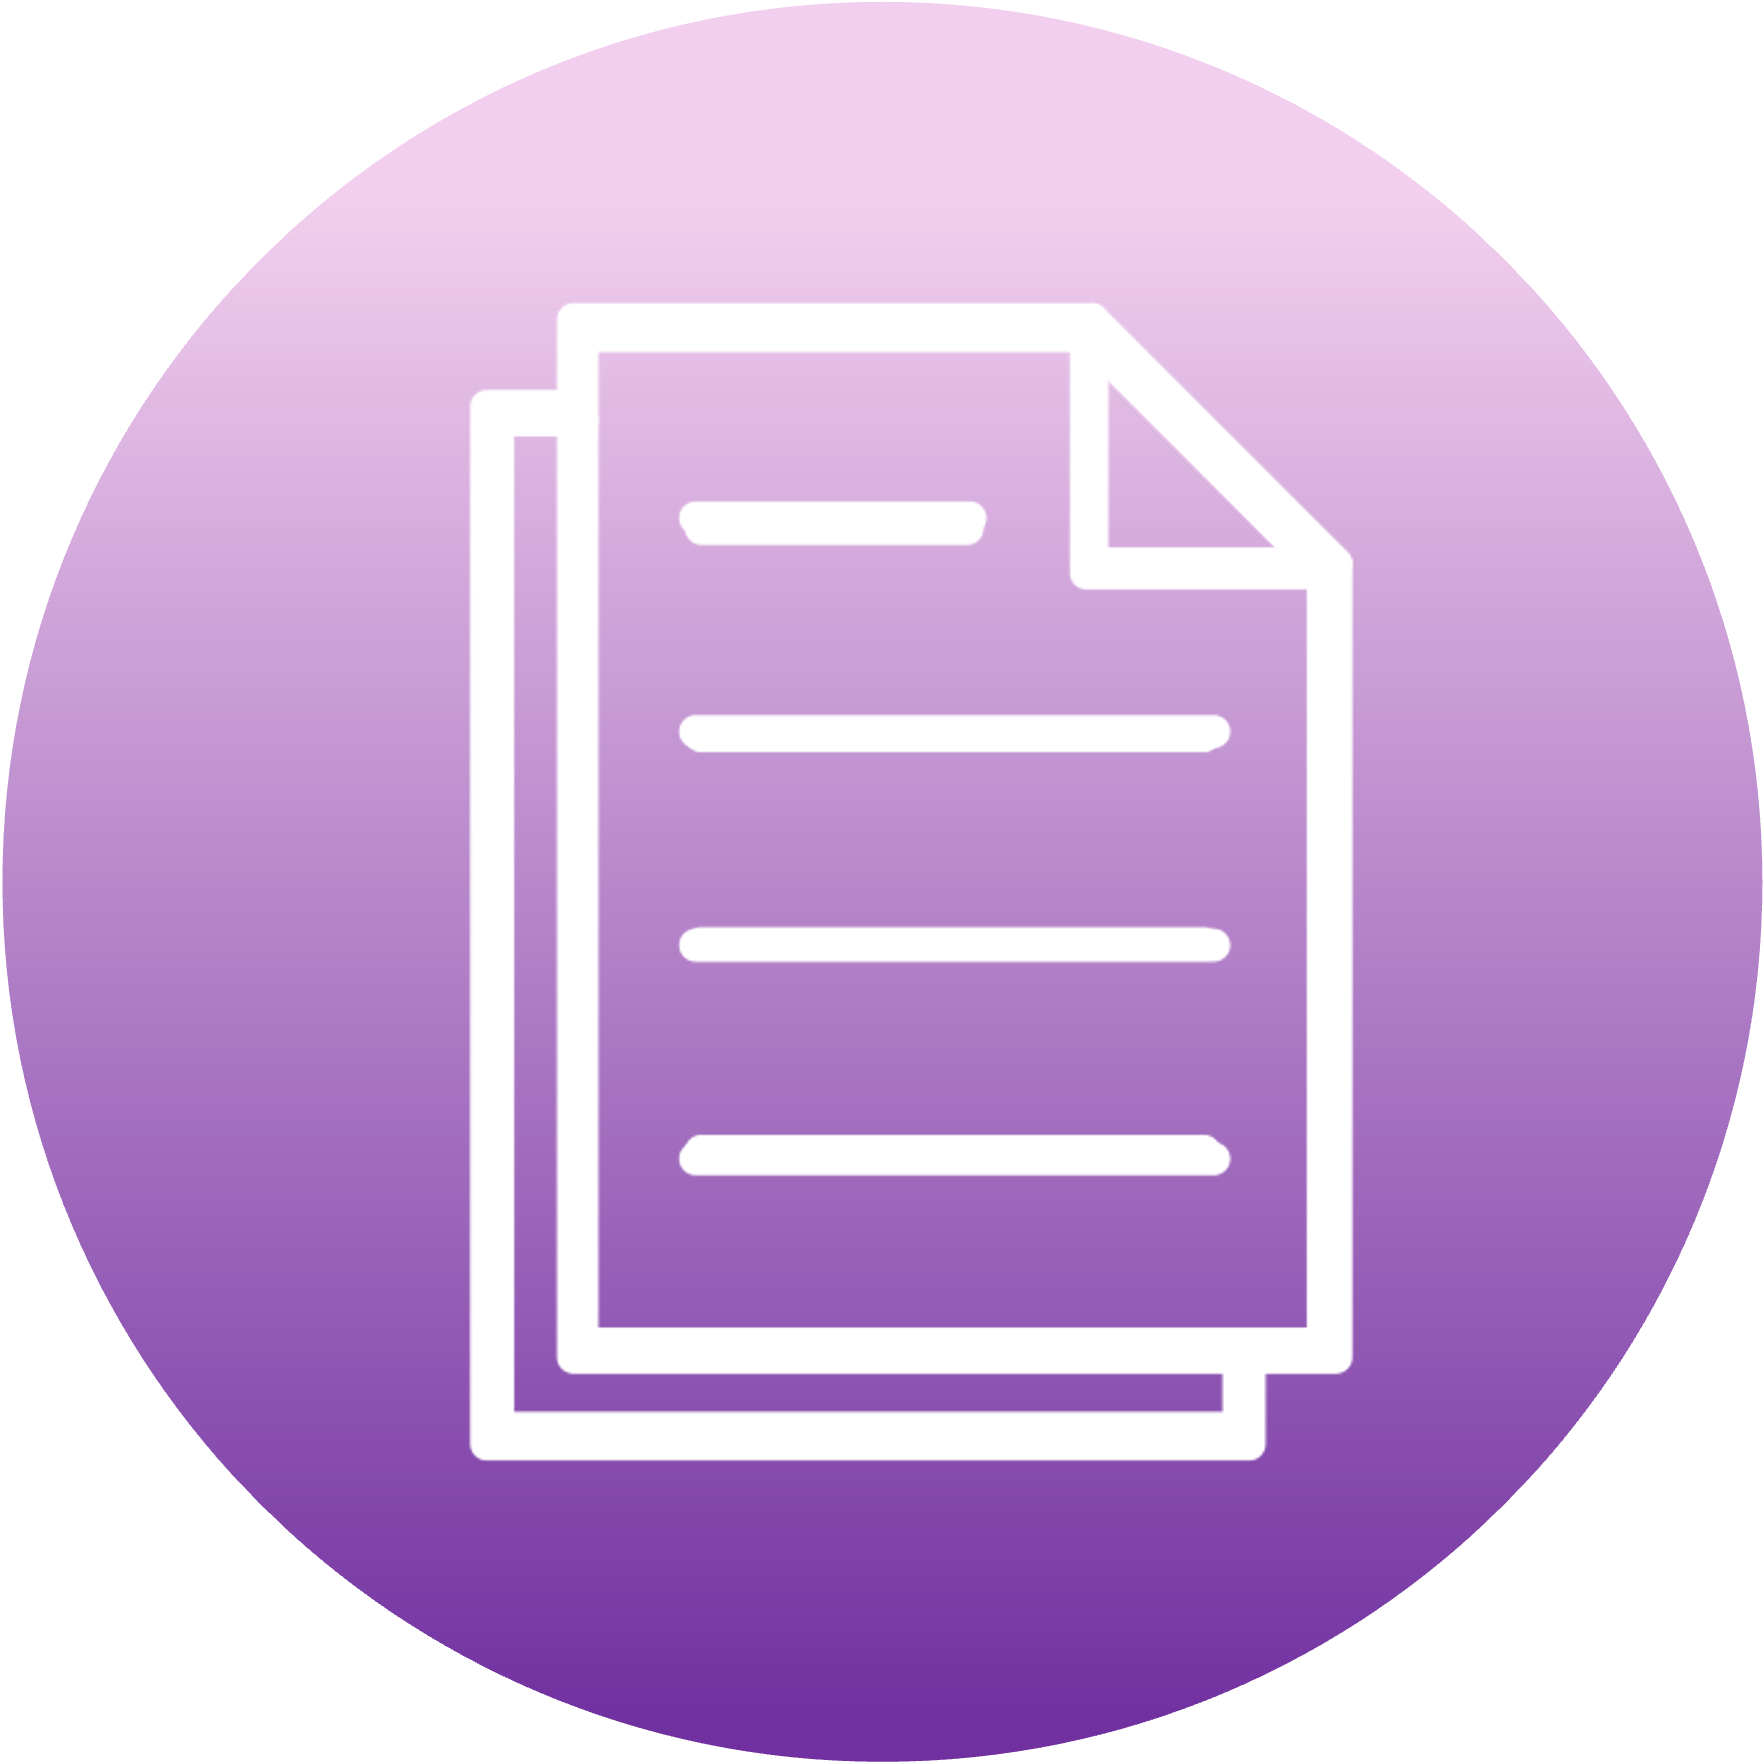
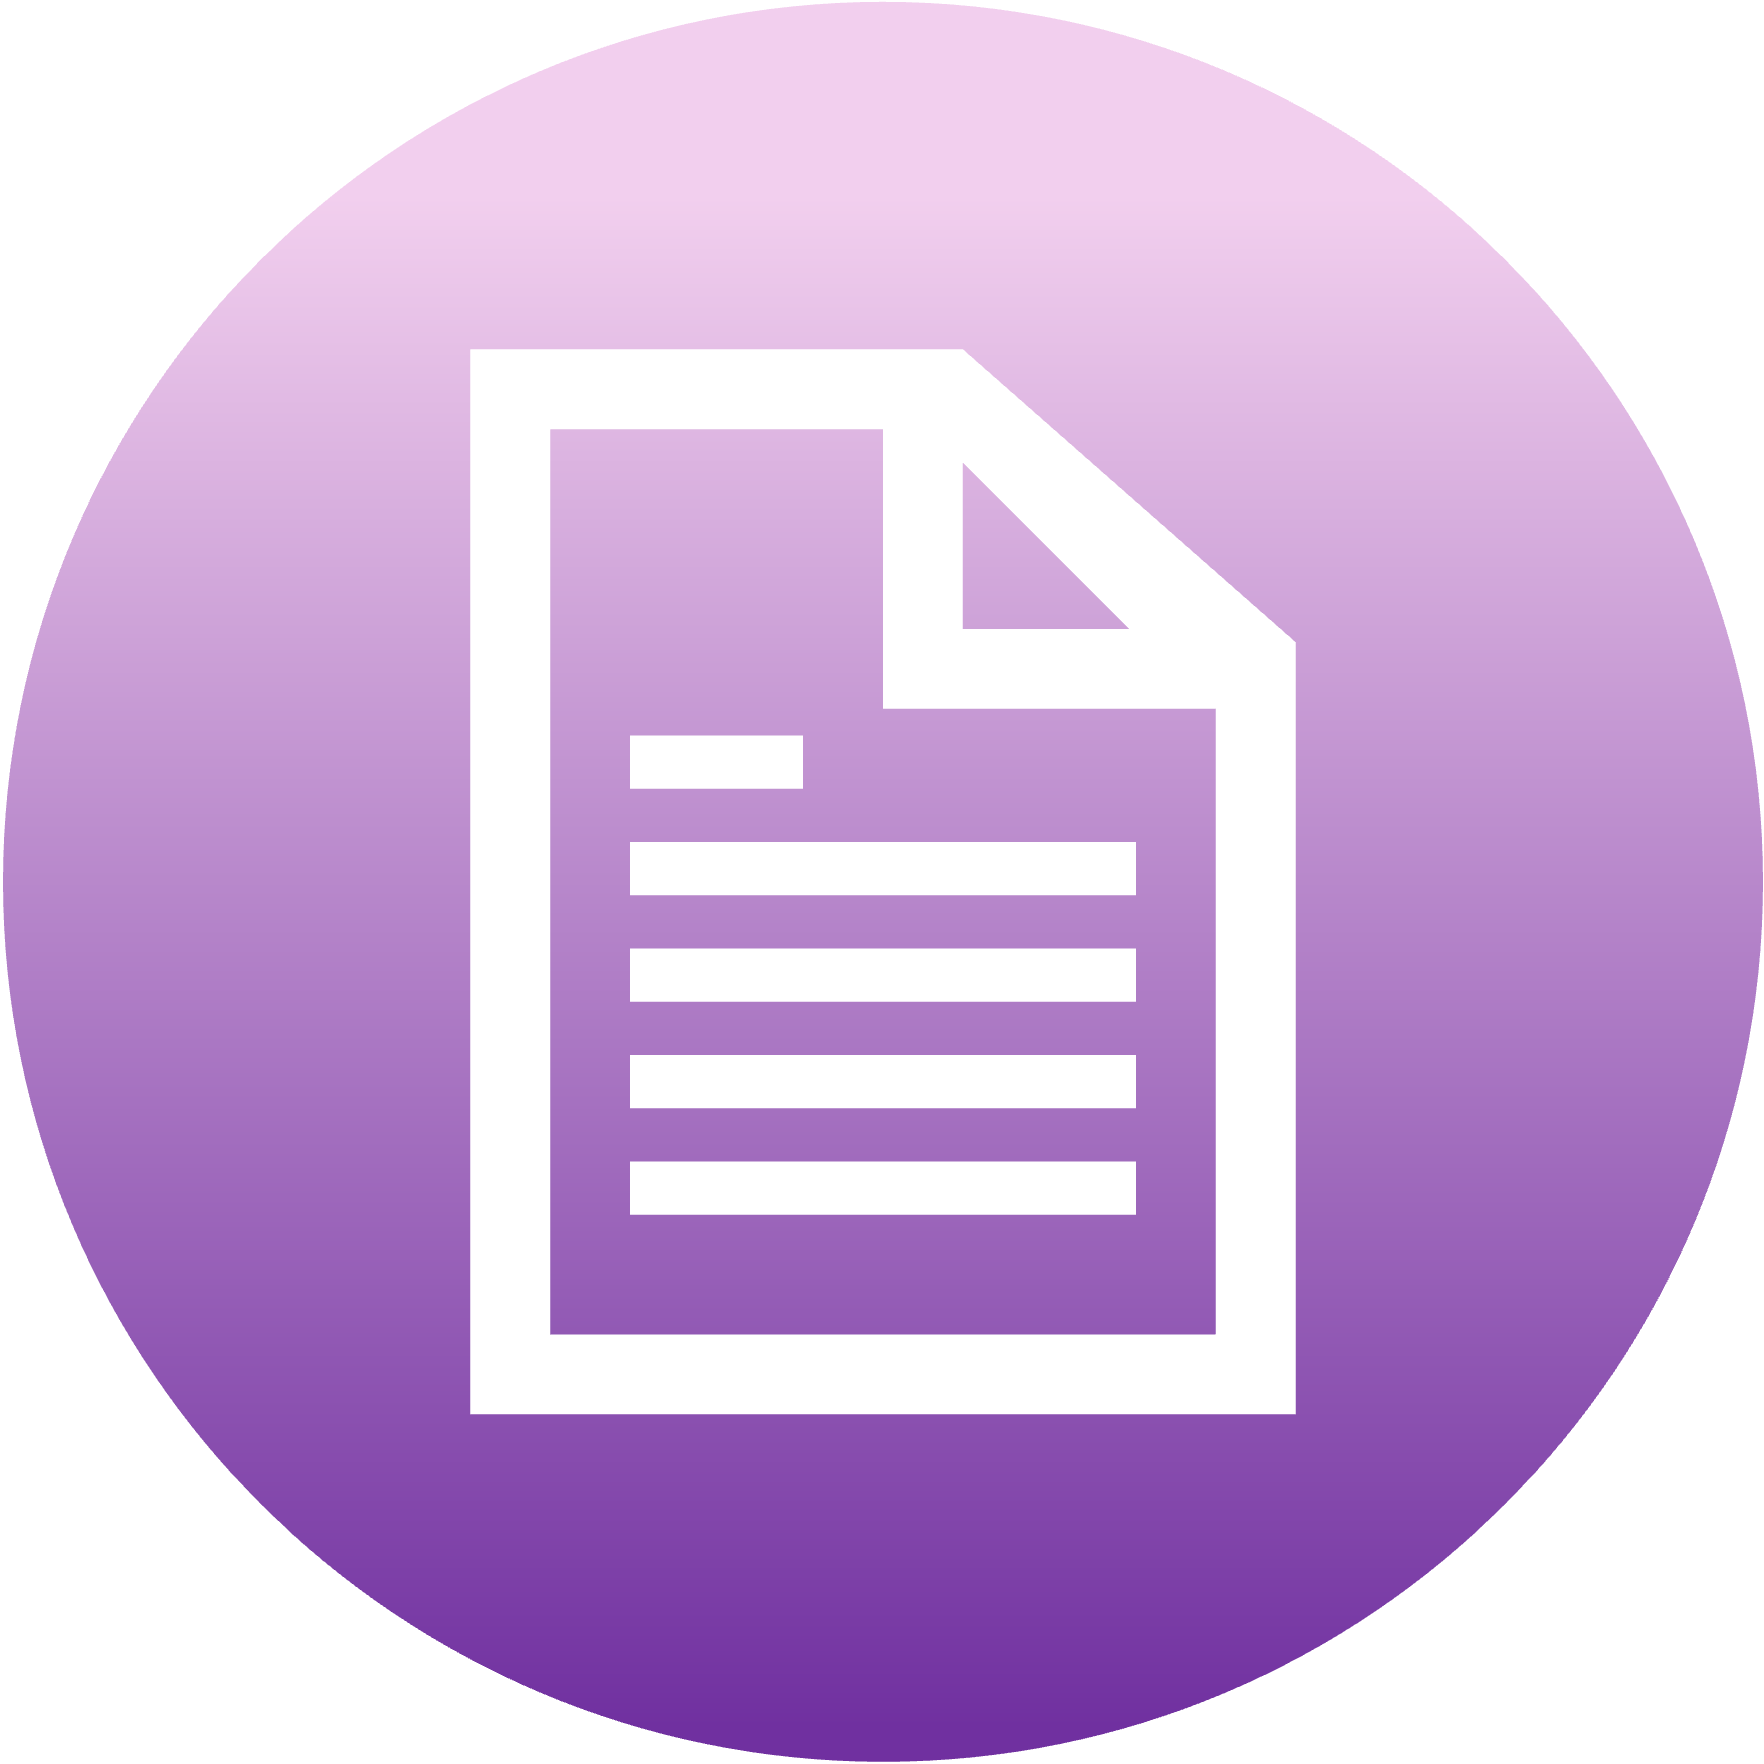
update projects and style

Changed region(s): [[0.2494, 0.1559, 0.7795, 0.8418], [0.9977, 0.4677, 1.0, 0.53]]

diff --git a/assets/css/beautifuljekyll.css b/assets/css/beautifuljekyll.css
@@ -1127,7 +1127,7 @@ pre {
   }
 }
 
-.box-gray {
+.box-overview {
   background-color: #EAEAEA;
   color: #000000;
   padding:20px;
@@ -1137,8 +1137,13 @@ pre {
   margin: 1em auto 1.75em;
 }  
 
-p.header {
+p.overview {
   padding-left: 25px; 
   text-indent: -25px;
   margin: .7rem 0;
+}
+
+.overview-icon {
+  width: 20px;
+  margin-bottom:3px;
 }

diff --git a/projects.md b/projects.md
@@ -12,7 +12,7 @@ The broader goals of **ManyBabies** come together through collaborative projects
       </div>
       <div class="col-sm-10">
         <h4>Main Projects</h4>
-        <i>Test a question about infant development of key theoretical or methodological interest. Numbered sequentially (e.g., MB1, MB2)</i>
+        <i>Address a question about infant development of key theoretical or methodological interest; main empirical projects are numbered sequentially (e.g., MB1, MB2)</i>
         <br>
       </div>
     </div>
@@ -23,7 +23,7 @@ The broader goals of **ManyBabies** come together through collaborative projects
       </div>
       <div class="col-sm-10">
         <h4>Spin-off Projects</h4>
-        <i>Build on the methods or data from the main projects; e.g., extending the study to a different population of infants (e.g., bilinguals; MB1B) or follow-up data collection (e.g., longitudinal correlation with CDIs; MB1L). Identified with a letter following the main project abbreviation</i>
+        <i>Build on the methods or data from the main projects, e.g., extending the study to a different population of infants (e.g., bilinguals; MB1B) or follow-up data collection (e.g., longitudinal correlation with CDIs; MB1L); identified with a letter following the main project abbreviation</i>
       </div>
     </div>
     <div class="row">
@@ -33,7 +33,7 @@ The broader goals of **ManyBabies** come together through collaborative projects
       </div>
       <div class="col-sm-10">
         <h4>Secondary Analyses</h4>
-        <i>Conducted on publicly-available ManyBabies data. In some cases, may include additional data not collected as part of MB (e.g., if an individual lab investigates relationships between their lab’s MB data and other data collected by their lab)</i>
+        <i>Conducted on publicly-available ManyBabies data; in some cases, may include additional data not collected as part of MB (e.g., if an individual lab investigates relationships between their lab’s MB data and other data collected by their lab)</i>
       </div>
     </div>
   </div>
@@ -53,7 +53,7 @@ The broader goals of **ManyBabies** come together through collaborative projects
           <a href="https://{{main.website }}"><img src="{{ main.logoPath }}" alt="{{ main.project}} logo" width="70" style="margin-top:4px;"></a>
         </div>
         <div class="col-sm-10">
-          <h3 style="margin-top:0em;"><a href=" https://{{main.website }}">{{ main.project }}:</a> {{ main.description }}</h3>
+          <h3 style="margin-top:0em;"><a href=" https://{{main.website }}">{{ main.project }}</a>: {{ main.description }}</h3>
           <i>{{ main.tagline }}</i><br>
           <b>Status:</b> <code>{{ main.status }}</code><br>
         </div>
@@ -70,7 +70,7 @@ The broader goals of **ManyBabies** come together through collaborative projects
         </div>
         <div class="col-sm-9">
           <hr style="margin-top:0.8em; margin-bottom:0.3em;">
-          <h4 style="margin-top:0.5em; margin-bottom:0.1em;"><a href=" https://{{spinoff.website }}">{{ spinoff.project }}:</a> {{ spinoff.description }}</h4>
+          <h4 style="margin-top:0.5em; margin-bottom:0.1em;"><a href=" https://{{spinoff.website }}">{{ spinoff.project }}</a>: {{ spinoff.description }}</h4>
           <b>Status:</b> <code>{{ spinoff.status }}</code><br>
         </div>
       </div> 
@@ -87,7 +87,7 @@ The broader goals of **ManyBabies** come together through collaborative projects
         </div>
         <div class="col-sm-9">
           <hr style="margin-top:0.8em; margin-bottom:0.3em;">
-          <h4 style="margin-top:0.5em;margin-bottom:0.1em;"><a href=" https://{{item.website }}">{{ item.project }}:</a> {{ item.description }}</h4>
+          <h4 style="margin-top:0.5em;margin-bottom:0.1em;"><a href=" https://{{item.website }}">{{ item.project }}</a>: {{ item.description }}</h4>
           <b>Status:</b> <code>{{ item.status }}</code><br>
         </div>
       </div> 
@@ -106,7 +106,7 @@ The broader goals of **ManyBabies** come together through collaborative projects
           <a href="https://{{main.website }}"><img src="{{ main.logoPath }}" alt="{{ main.project}} logo" width="70" style="margin-top:4px;"></a>
         </div>
         <div class="col-sm-10">
-          <h3 style="margin-top:0.1em;"><a href=" https://{{main.website }}">{{ main.project }}:</a> {{ main.description }}</h3>
+          <h3 style="margin-top:0.1em;"><a href=" https://{{main.website }}">{{ main.project }}</a>: {{ main.description }}</h3>
           <i>{{ main.tagline }}</i><br>
           <b>Status:</b> <code>{{ main.status }}</code><br>
         </div>
@@ -123,7 +123,7 @@ The broader goals of **ManyBabies** come together through collaborative projects
         </div>
         <div class="col-sm-9">
           <hr style="margin-top:0.8em; margin-bottom:0.3em;">
-          <h4 style="margin-top:0.5em; margin-bottom:0.1em;"><a href=" https://{{spinoff.website }}">{{ spinoff.project }}:</a> {{ spinoff.description }}</h4>
+          <h4 style="margin-top:0.5em; margin-bottom:0.1em;"><a href=" https://{{spinoff.website }}">{{ spinoff.project }}</a>: {{ spinoff.description }}</h4>
           <b>Status:</b> <code>{{ spinoff.status }}</code><br>
         </div>
       </div> 
@@ -140,7 +140,7 @@ The broader goals of **ManyBabies** come together through collaborative projects
         </div>
         <div class="col-sm-9">
           <hr style="margin-top:0.8em; margin-bottom:0.3em;">
-          <h4 style="margin-top:0.5em; margin-bottom:0.1em;"><a href=" https://{{item.website }}">{{ item.project }}:</a> {{ item.description }}</h4>
+          <h4 style="margin-top:0.5em; margin-bottom:0.1em;"><a href=" https://{{item.website }}">{{ item.project }}</a>: {{ item.description }}</h4>
           <b>Status:</b> <code>{{ item.status }}</code  ><br>
         </div>
       </div> 
@@ -159,7 +159,7 @@ The broader goals of **ManyBabies** come together through collaborative projects
           <a href="https://{{affiliate.website }}" target="_blank"><img src="{{ affiliate.logoPath }}" alt="{{ affiliate.project}} logo" width="70" style="margin-top:4px;"></a>
         </div>
         <div class="col-sm-10">
-          <h3 style="margin-top:0.1em;"><a href=" https://{{affiliate.website }}" target="_blank">{{ affiliate.project }}:</a> {{ affiliate.description }}</h3>
+          <h3 style="margin-top:0.1em;"><a href=" https://{{affiliate.website }}" target="_blank">{{ affiliate.project }}</a>: {{ affiliate.description }}</h3>
           <i>{{ affiliate.tagline }}</i><br>
           <b>Go to the <a href="https://{{ affiliate.website }}" target="_blank">{{ affiliate.project }} website</a> for more info</b><br> 
         </div>
